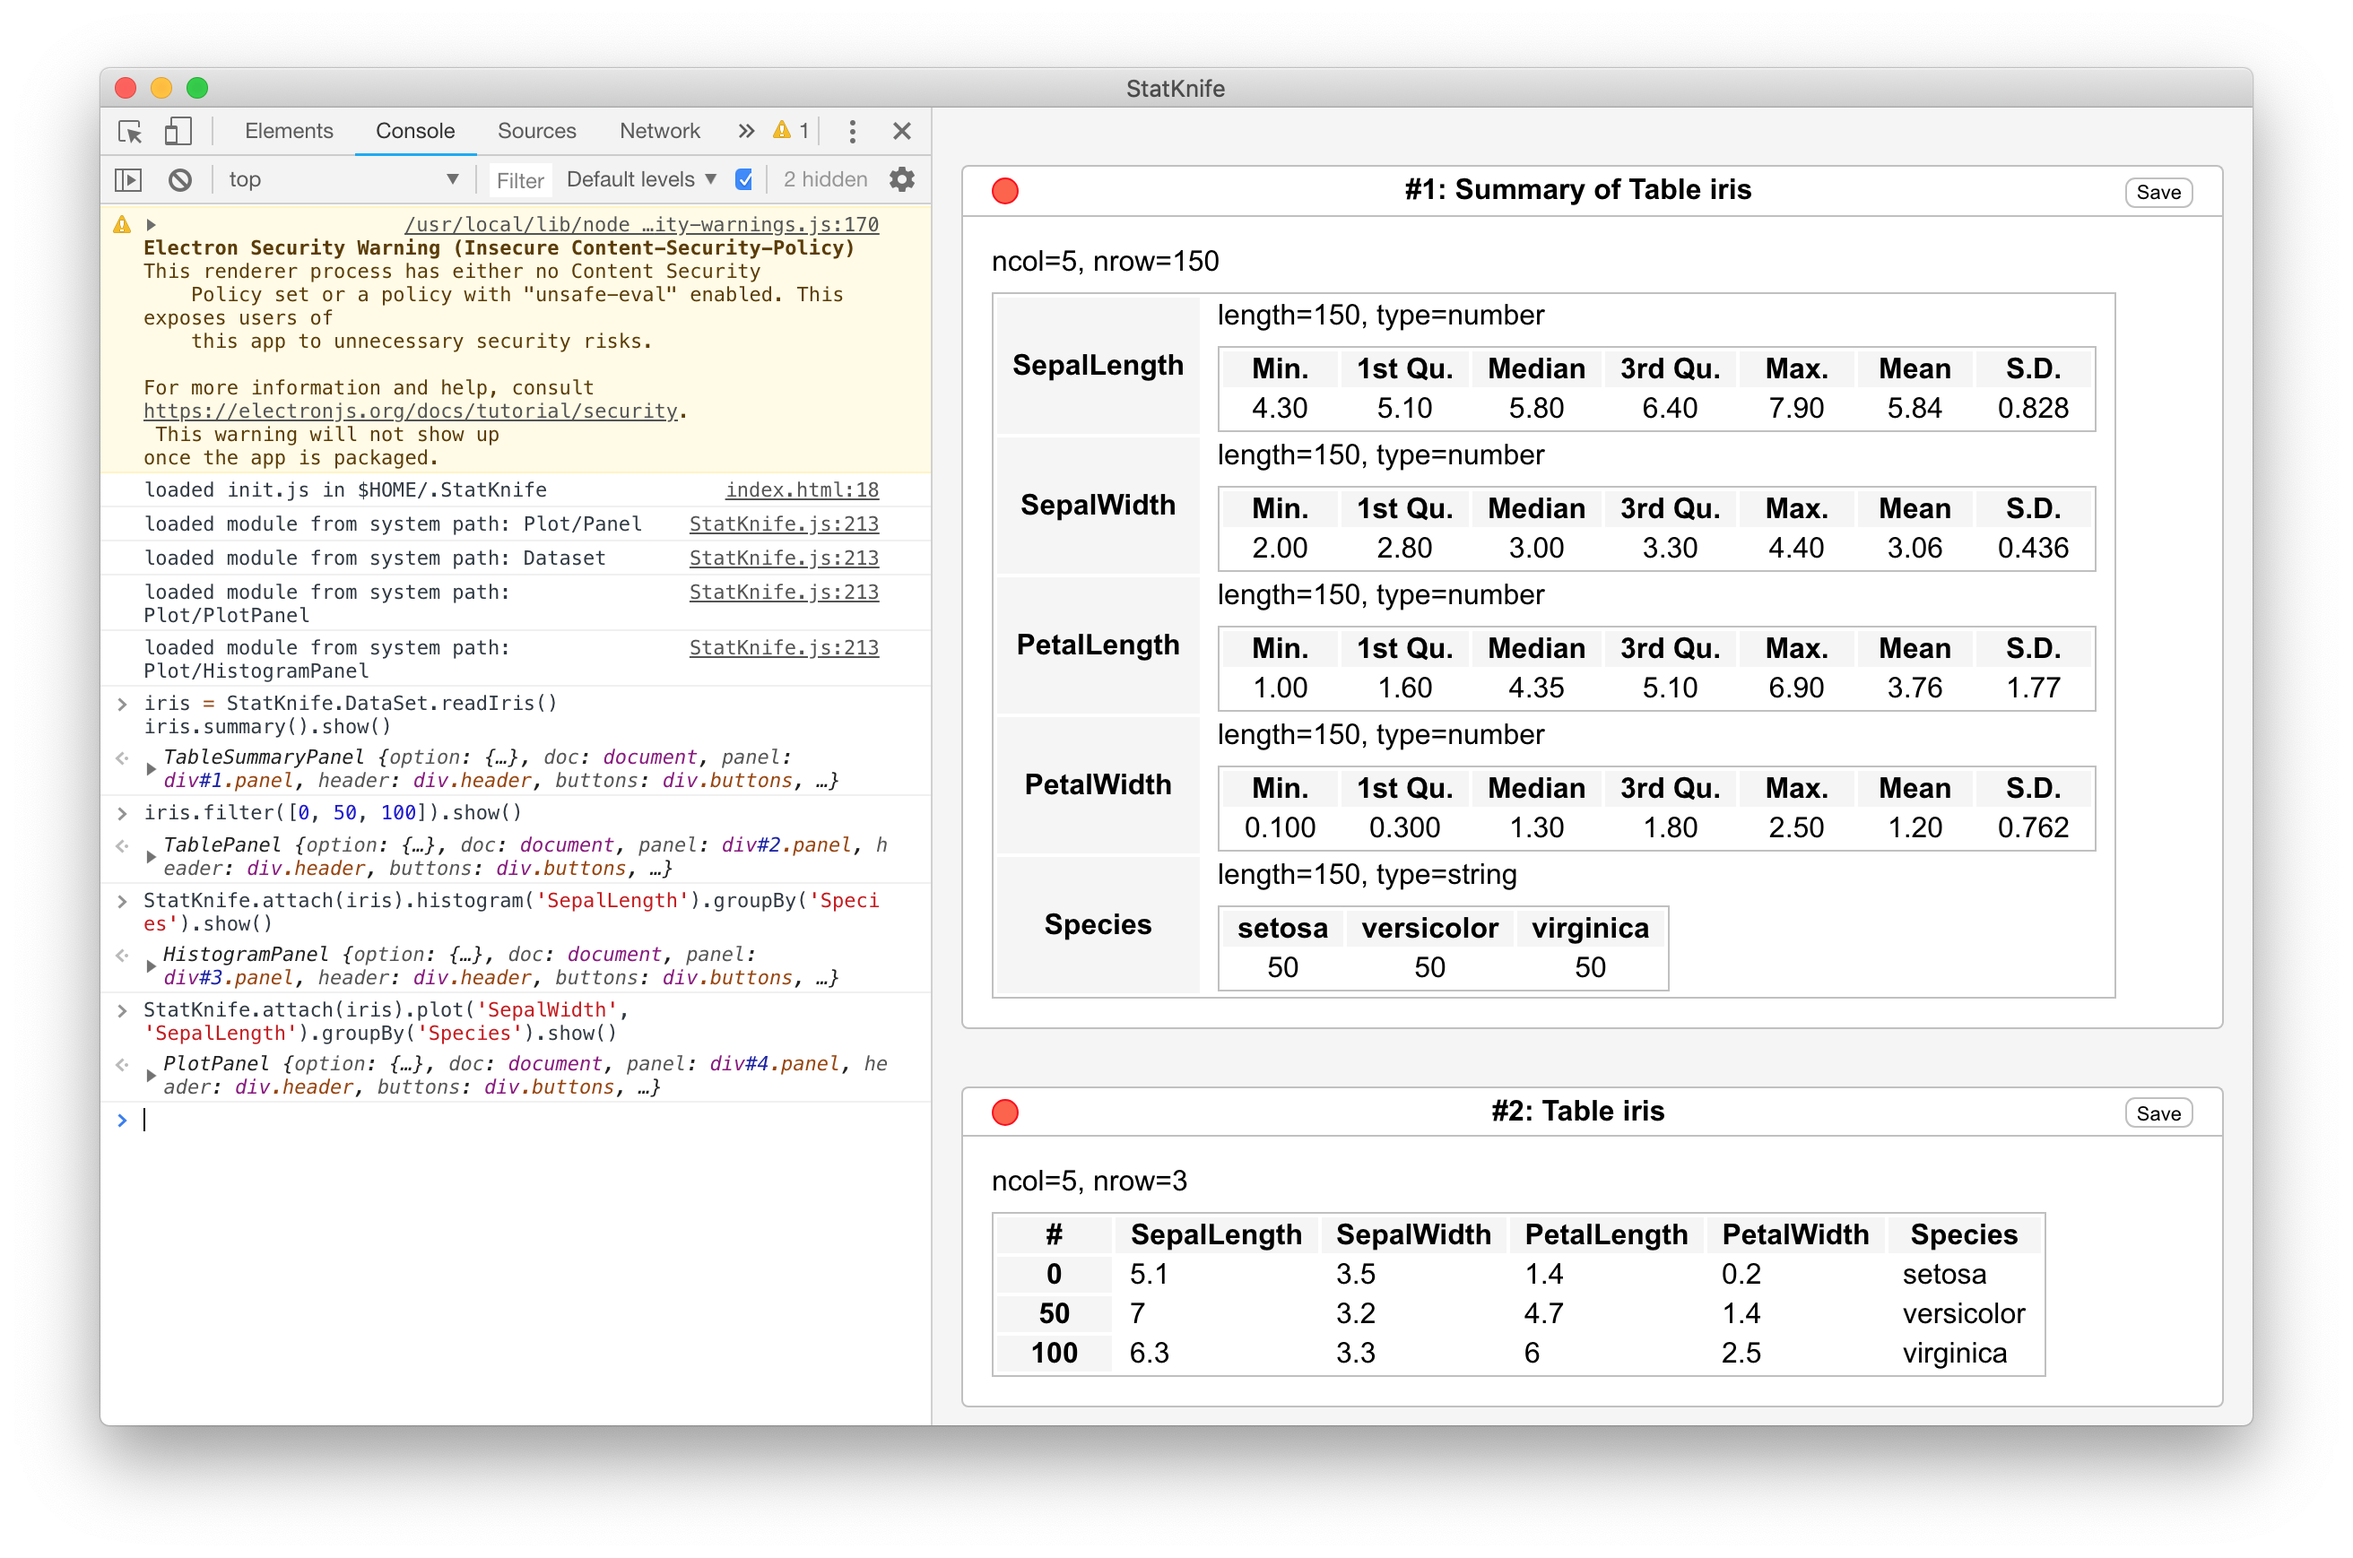
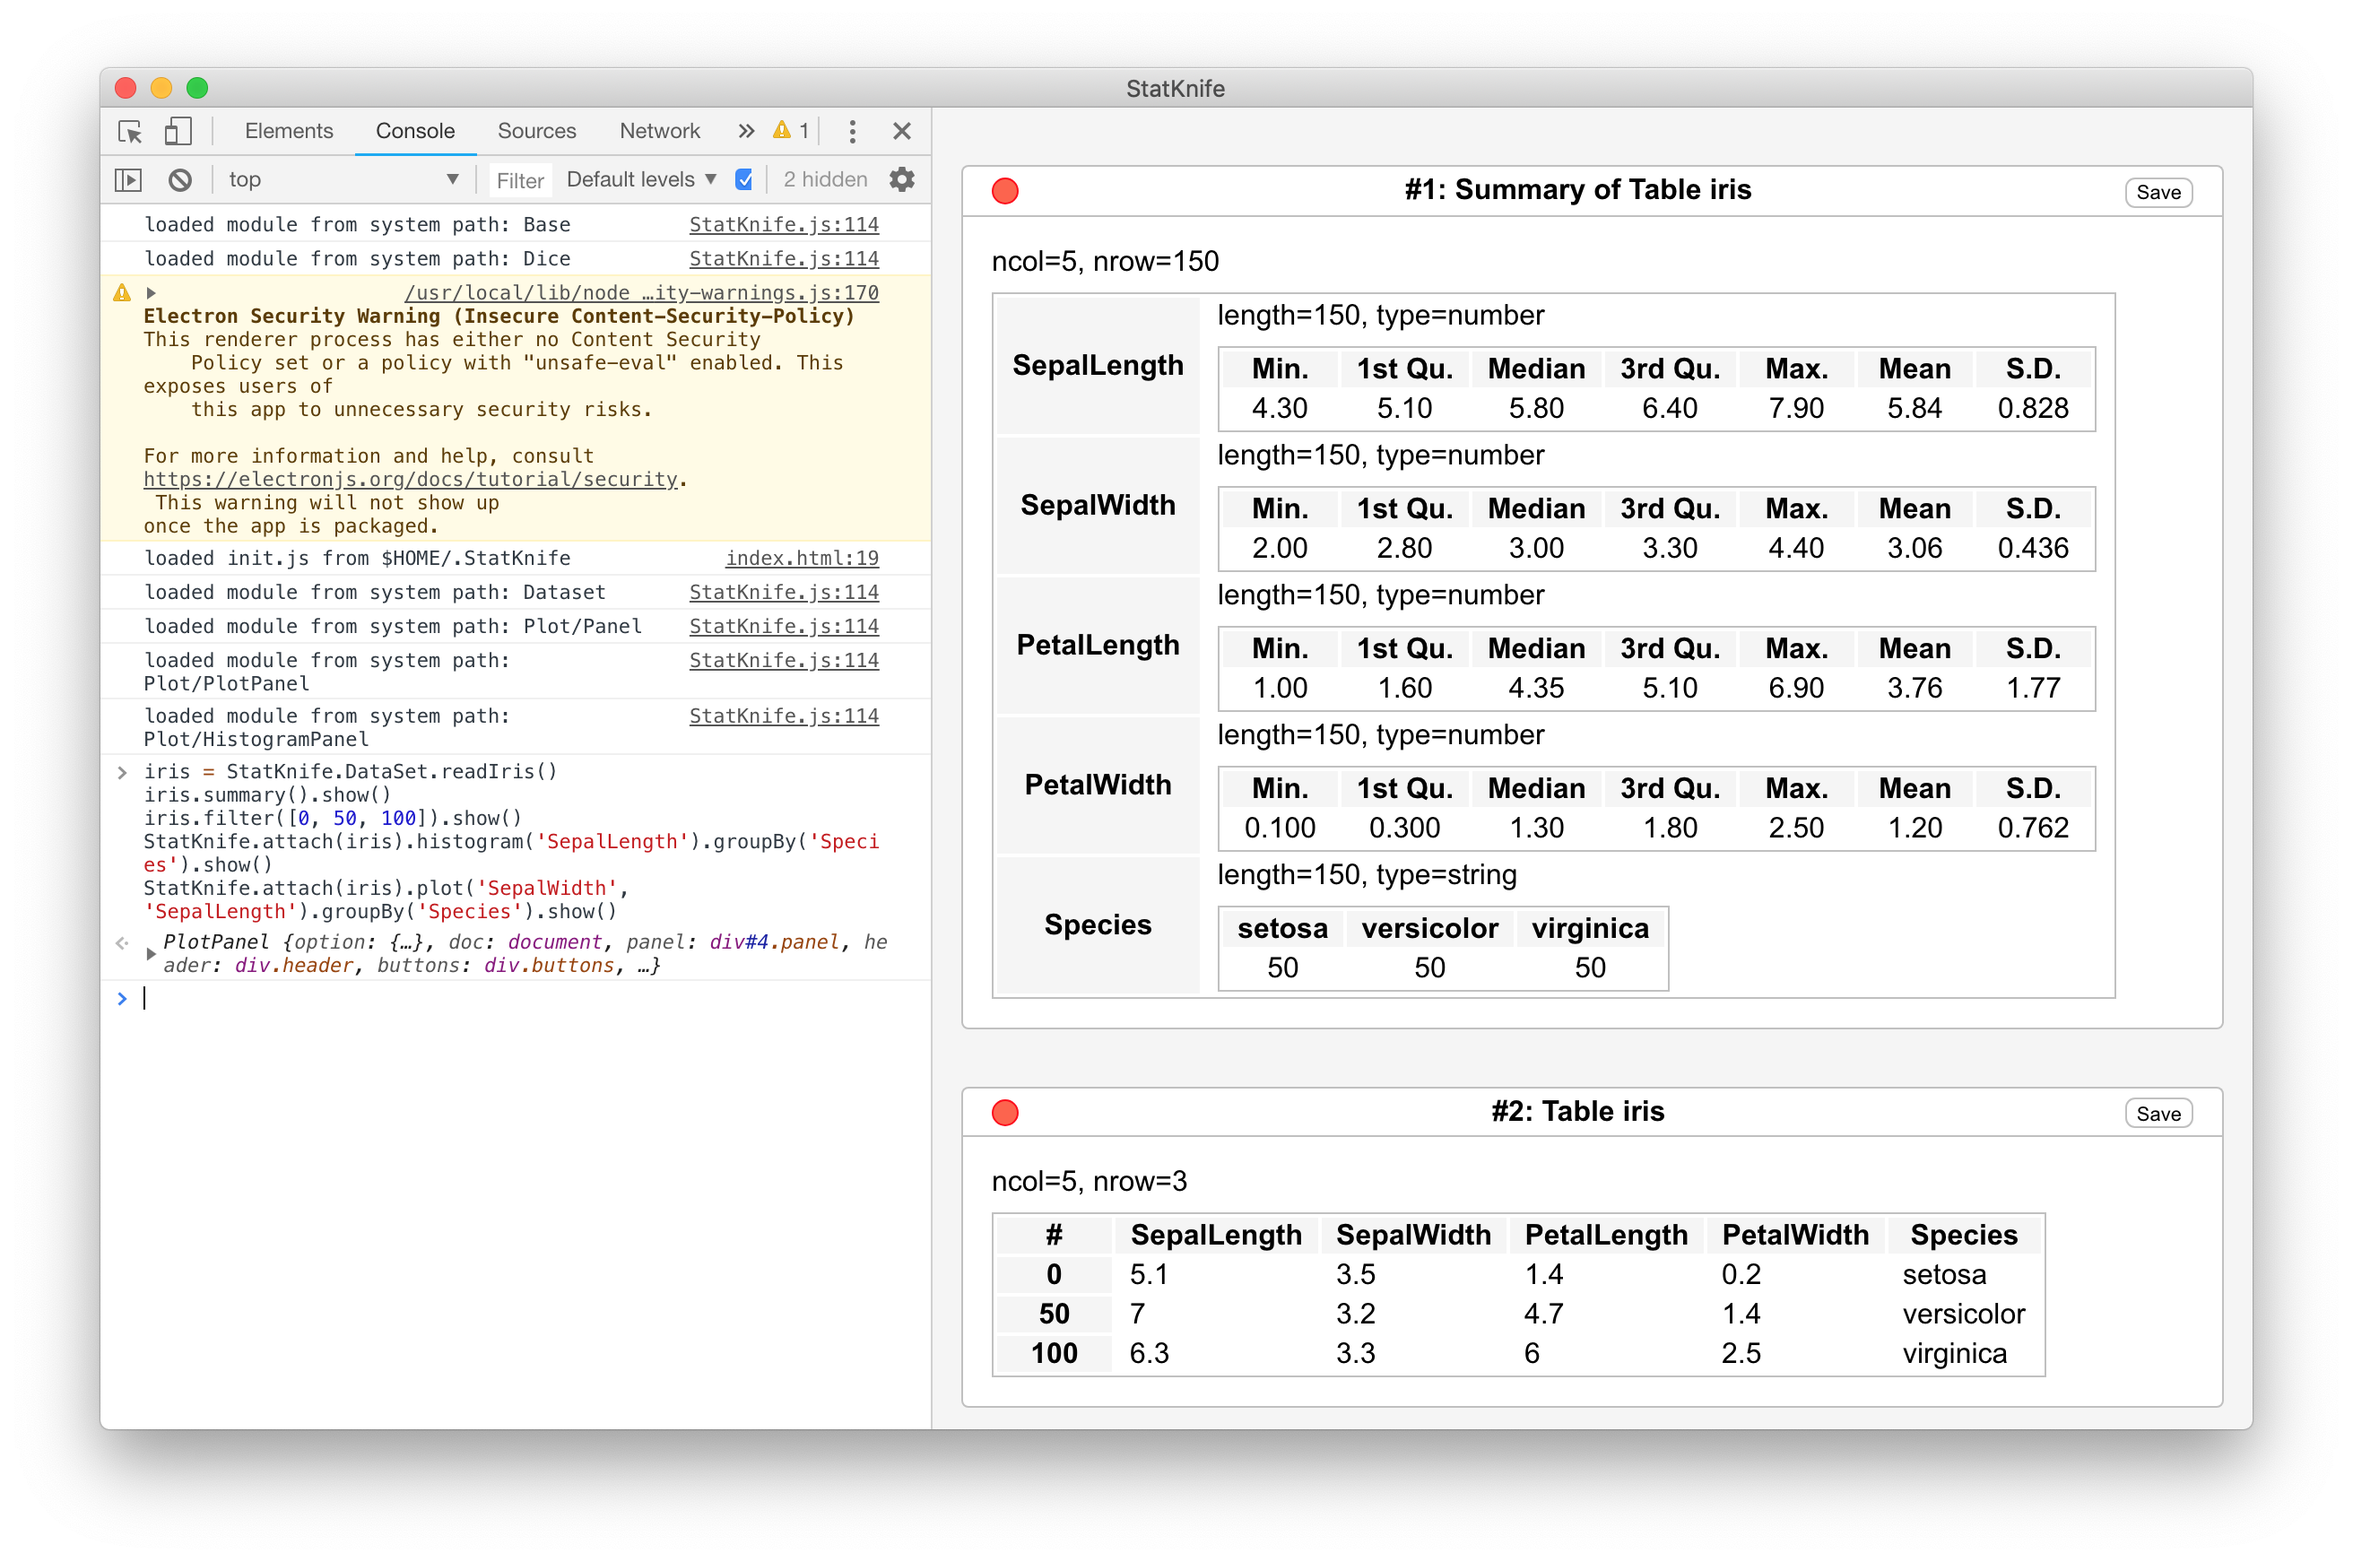
Implemented Dice

diff --git a/index.html b/index.html
@@ -11,13 +11,14 @@
       window.d3 = require('d3');
       import StatKnife from 'es6://lib/StatKnife.js';
       window.StatKnife = new StatKnife(window);
+      window.StatKnife.importFromSystemPath('Dice');
       window.StatKnife.importFromSystemPath('Dataset');
       window.StatKnife.importFromSystemPath('Plot/Panel');
       const initPath = `${process.env['HOME']}/.StatKnife/init.js`;
       if (fs.existsSync(initPath)) {
-        import(`es6-root://${initPath}`).then(() => console.log(`loaded init.js in $HOME/.StatKnife`));
+        import(`es6-root://${initPath}`).then(() => console.log(`loaded init.js from $HOME/.StatKnife`));
       } else {
-        console.log(`skipped to load init.js in $HOME/.StatKnife`);
+        console.log(`skipped to load init.js from $HOME/.StatKnife`);
       }
     </script>
   </body>

diff --git a/lib/Dice.js b/lib/Dice.js
@@ -1,0 +1,31 @@
+const d3 = require('d3');
+
+export default class Dice {
+  static onimported(StatKnife) {
+    StatKnife.Dice = Dice;
+  }
+  constructor(seed) {
+    this.x = seed;
+    this.y = this.z = this.w = 0.0;
+  }
+
+  uint32() {
+    // XorShift128
+    const t = this.x^(this.x<<11);
+    this.x = this.y;
+    this.y = this.z;
+    this.z = this.w;
+    this.w ^= (this.w>>>19)^(t^(t>>>8));
+    return this.w;
+  }
+  float64() {
+    return this.uint32()/0x100000000 + 0.5;
+  }
+
+  uniformDist(min=0.0, max=1.0) {
+    return d3.randomNormal.source(() => this.float64())(min, max);
+  }
+  normalDist(mu=0.0, sigma=1.0) {
+    return d3.randomNormal.source(() => this.float64())(mu, sigma);
+  }
+}

diff --git a/lib/Plot/Panel.js b/lib/Plot/Panel.js
@@ -10,7 +10,7 @@ export default class Panel extends StatKnifePanel {
   constructor(...args) {
     super(...args);
     this.width(480).height(480);
-    this._margin = {top: 16, right: 16, bottom: 48, left: 48};
+    this._margin = {top: 24, right: 16, bottom: 48, left: 48};
     this._xScale = d3.scaleLinear();
     this._yScale = d3.scaleLinear();
     this.xLabel('X').yLabel('Y');

diff --git a/main.js b/main.js
@@ -1,5 +1,4 @@
 const fs = require('fs');
-const path = require('path');
 const electron = require('electron');
 const app = electron.app;
 const BrowserWindow = electron.BrowserWindow;

diff --git a/README.md b/README.md
@@ -15,10 +15,6 @@ It will also provide many features supported by modern Web browsers in many deve
 
 ## Showcases
 
-![screenshot 1](doc/res/screenshot1.png "screenshot 1")
-![screenshot 2](doc/res/screenshot2.png "screenshot 2")
-![screenshot 3](doc/res/screenshot3.png "screenshot 3")
-
 ```js
 iris = StatKnife.DataSet.readIris()
 iris.summary().show()
@@ -26,6 +22,19 @@ iris.filter([0, 50, 100]).show()
 StatKnife.attach(iris).histogram('SepalLength').groupBy('Species').show()
 StatKnife.attach(iris).plot('SepalWidth', 'SepalLength').groupBy('Species').show()
 ```
+
+![screenshot 1](doc/res/screenshot1.png "screenshot 1")
+![screenshot 2](doc/res/screenshot2.png "screenshot 2")
+![screenshot 3](doc/res/screenshot3.png "screenshot 3")
+![screenshot 4](doc/res/screenshot4.png "screenshot 4")
+
+```js
+dice = new StatKnife.Dice(20190216)
+sampleNorm = Array(100000).fill(0.0).map((_, i) => dice.uniformDist()())
+StatKnife.attach(sampleNorm).histogram('value').thresholds(100).show()
+```
+
+![screenshot 5](doc/res/screenshot5.png "screenshot 5")
 
 ## Installation and Development
 
